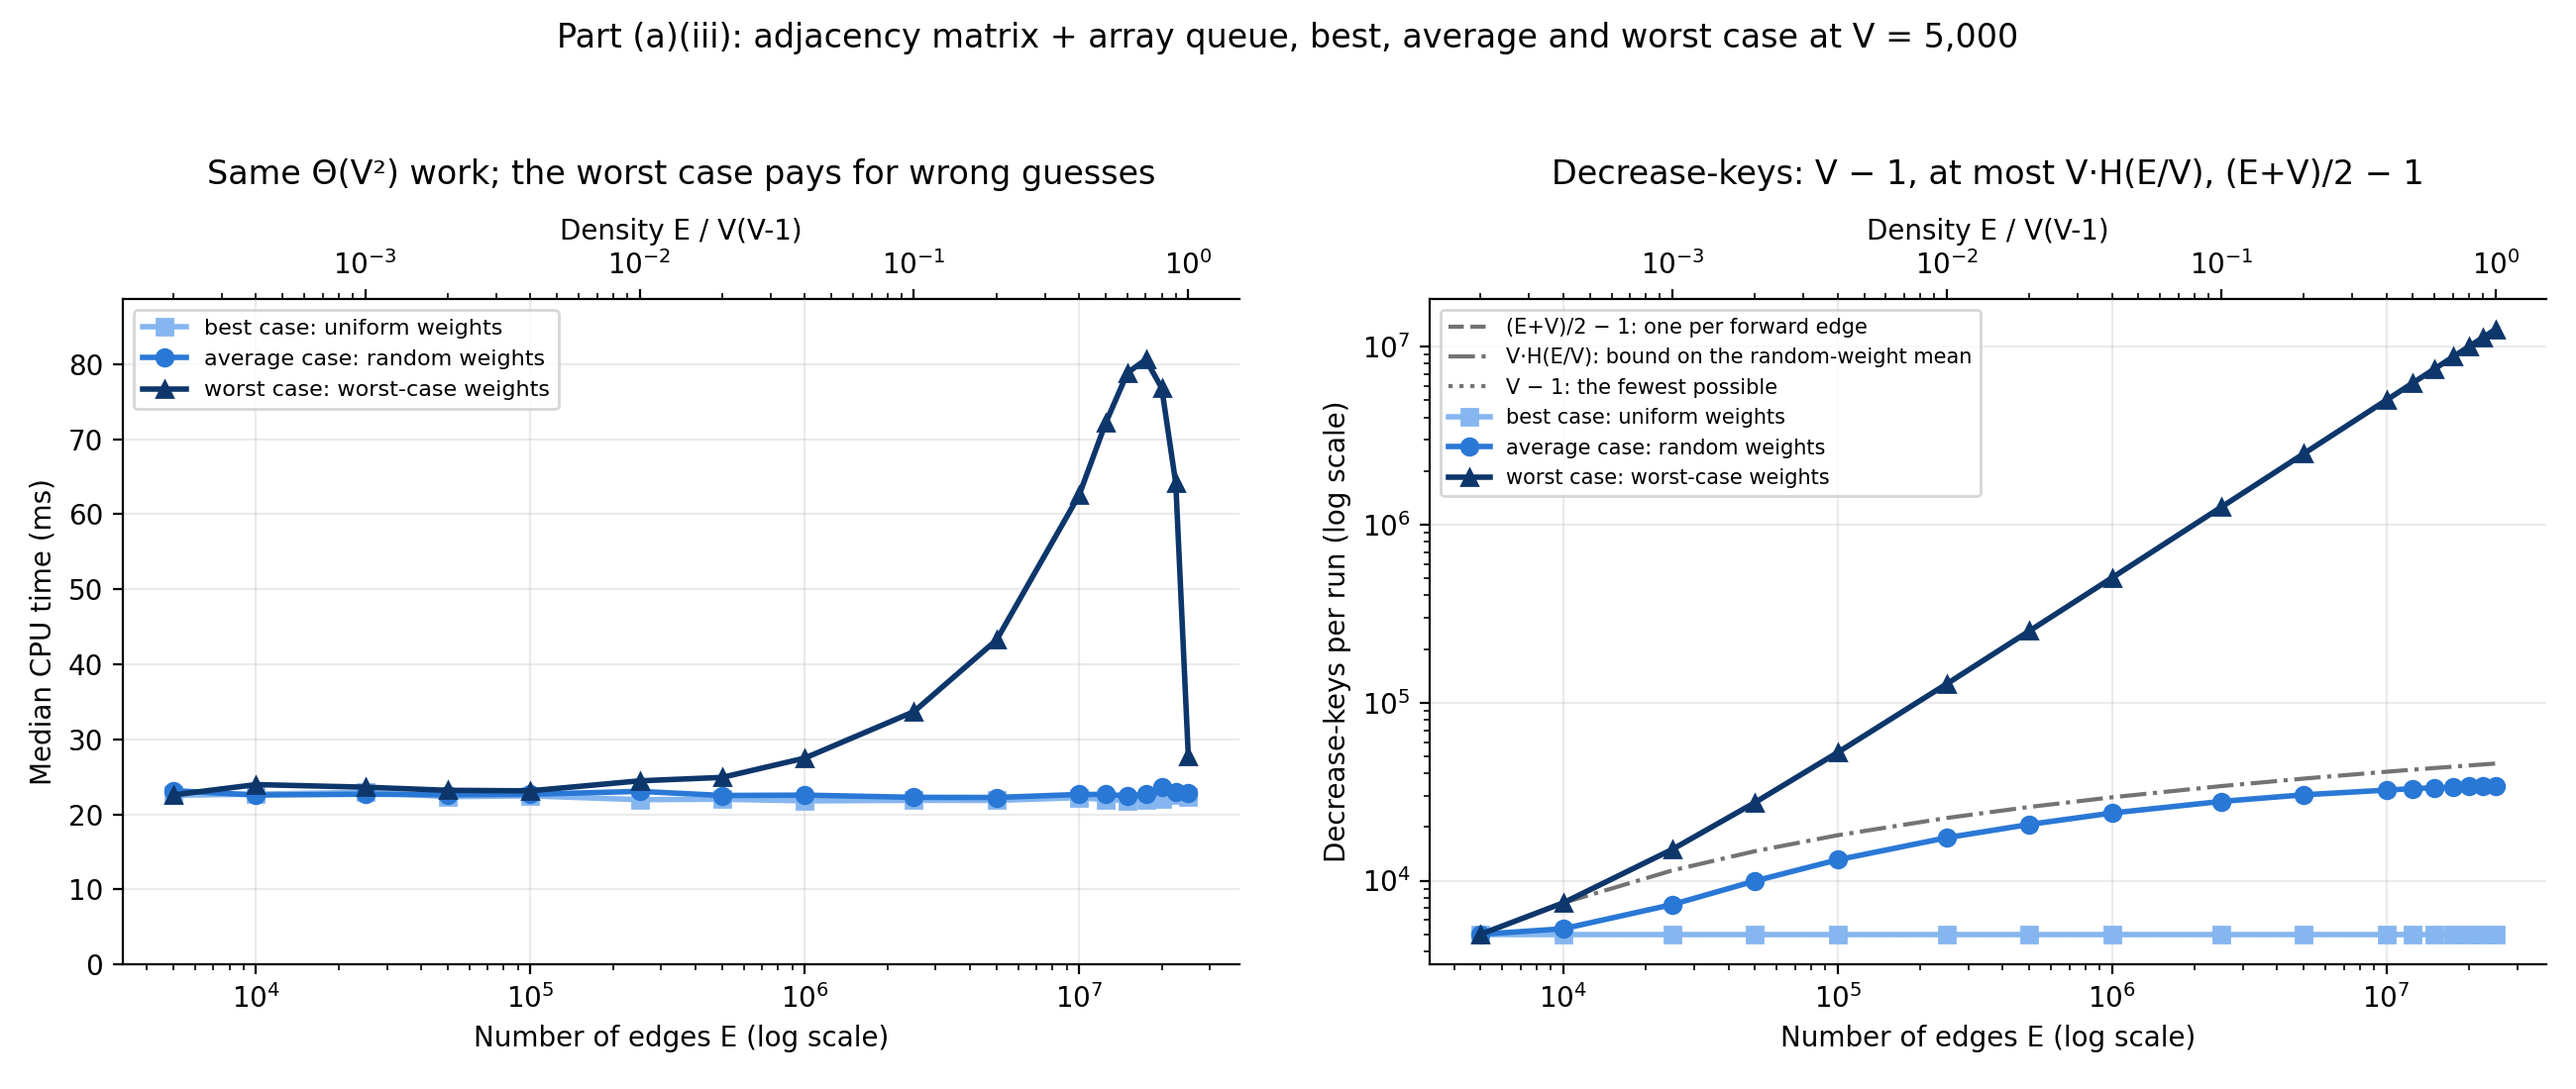
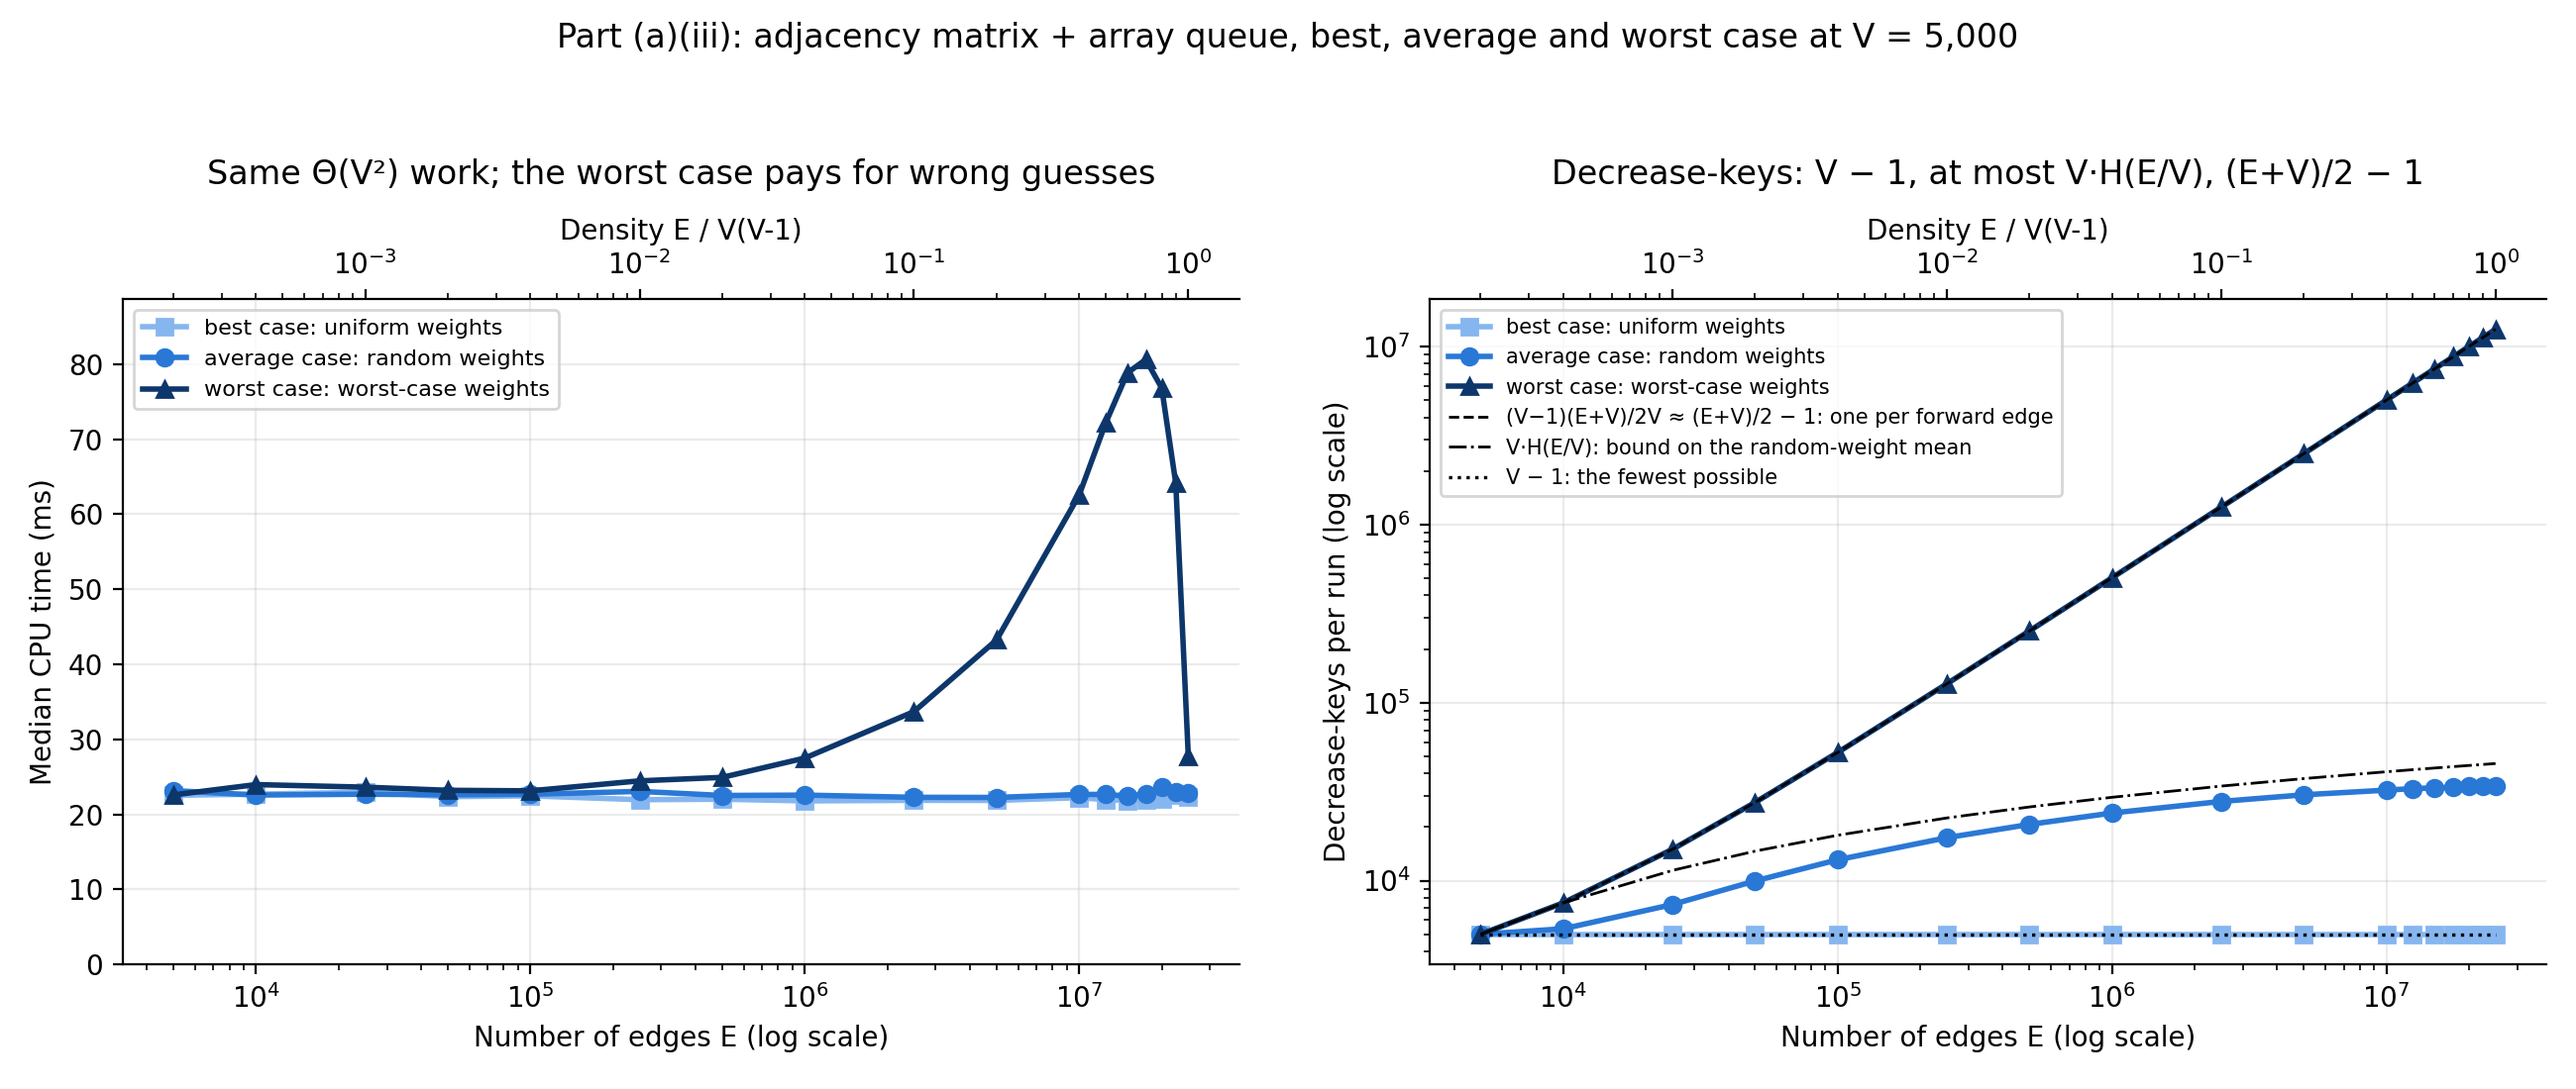
Apply second-review fixes to parts (a)/(b) docs and figures
- README: (a)/(b) ratio at density 0.5 is 1.87; worst-case count stated as
  (V-1)(E+V)/(2V) ~ (E+V)/2 - 1; separate why (a)(i) stops at V = 8,000
  from the 40 GB matrix at V = E; clearer forward-edge definition.
- Figures: reference lines in the (iii) decrease-key panels drawn on top of
  the data they coincide with; (b)(i) count-panel title states the measured
  heap comparisons / V log2 V range; H(x) extended to non-integer E/V.
- GraphGenerator Javadoc: the no-shortcut argument and F_i definition.

diff --git a/project-2/python/plot_results.py b/project-2/python/plot_results.py
@@ -110,8 +110,19 @@ def relative_linear_fit(x_values, y_values):
     return (t0 - slope * s1) / s0, slope
 
 
-def harmonic(k):
-    return sum(1.0 / i for i in range(1, int(round(k)) + 1))
+def harmonic(x):
+    """H(x) = digamma(x + 1) + Euler's gamma, which equals 1 + 1/2 + ... + 1/x for whole x.
+
+    E/V is not always a whole number in the fixed-E sweeps, so the sum alone would round it.
+    """
+    shift = 0.0
+    z = x + 1.0
+    while z < 8.0:
+        shift -= 1.0 / z
+        z += 1.0
+    digamma = (math.log(z) - 1.0 / (2.0 * z) - 1.0 / (12.0 * z ** 2)
+               + 1.0 / (120.0 * z ** 4) - 1.0 / (252.0 * z ** 6))
+    return digamma + shift + 0.5772156649015329
 
 
 def heap_term(row):
@@ -169,21 +180,22 @@ def plot_case_times(axis, rows, algorithm):
 def plot_case_decrease_keys(axis, rows, algorithm, vertex_count):
     """Decrease-keys against E for each weighting, with the three theoretical counts."""
     e = column(rows_where(rows, weights="random"), "e")
-    axis.plot(
-        e, [forward_edges(x, vertex_count) for x in e], linestyle="--", color=REFERENCE_COLOUR,
-        linewidth=1.5, label="(E+V)/2 − 1: one per forward edge")
-    axis.plot(
-        e, [vertex_count * harmonic(x / vertex_count) for x in e], linestyle="-.",
-        color=REFERENCE_COLOUR, linewidth=1.5, label="V·H(E/V): bound on the random-weight mean")
-    axis.plot(
-        e, [vertex_count - 1 for _ in e], linestyle=":", color=REFERENCE_COLOUR,
-        linewidth=1.5, label="V − 1: the fewest possible")
     for weights in CASE_ORDER:
         weight_rows = rows_where(rows, weights=weights)
         axis.plot(
             column(weight_rows, "e"), column(weight_rows, "mean_decrease_keys"),
             marker=CASE_MARKERS[weights], color=CASE_SHADES[algorithm][weights],
             linewidth=2, label=CASE_NAMES[weights])
+    # The references go on top: two of them coincide with the data they predict.
+    axis.plot(
+        e, [forward_edges(x, vertex_count) for x in e], linestyle="--", color="black",
+        linewidth=1, zorder=5, label="(V−1)(E+V)/2V ≈ (E+V)/2 − 1: one per forward edge")
+    axis.plot(
+        e, [vertex_count * harmonic(x / vertex_count) for x in e], linestyle="-.",
+        color="black", linewidth=1, zorder=5, label="V·H(E/V): bound on the random-weight mean")
+    axis.plot(
+        e, [vertex_count - 1 for _ in e], linestyle=":", color="black",
+        linewidth=1.2, zorder=5, label="V − 1: the fewest possible")
     axis.set_xscale("log")
     axis.set_yscale("log")
     axis.set_ylabel("Decrease-keys per run (log scale)")
@@ -403,7 +415,12 @@ def plot_part_b_vary_v(results_directory, output_directory):
     time_axis.set_title(f"Same E = {edge_count:,}: (a) grows as V², (b) far more slowly")
     time_axis.legend(fontsize=8, loc="upper left")
     count_axis.set_ylabel("Operations per run (log scale), part (b)")
-    count_axis.set_title("(b): heap work grows like V log V; relaxations stay at E")
+    per_v_log_v = [
+        comparisons / (n * math.log2(n))
+        for comparisons, n in zip(heap_comparisons, v) if n < edge_count]
+    count_axis.set_title(
+        f"(b): heap comparisons {min(per_v_log_v):.1f}–{max(per_v_log_v):.1f} × V·log₂V "
+        "for V < E; relaxations stay at E")
     count_axis.legend(fontsize=8, loc="upper left")
 
     figure.suptitle(

diff --git a/project-2/java/GraphGenerator.java b/project-2/java/GraphGenerator.java
@@ -91,8 +91,10 @@ public final class GraphGenerator {
      * weights that make vertex 0 a worst-case source for the heap.
      *
      * <p>Let x0 = 0, x1, x2, ... be the vertices in cycle order. Cycle edges
-     * get weight 1, so d(x_i) = i and Dijkstra's algorithm extracts the
-     * vertices in exactly this order. An edge from x_i forward to a later
+     * get weight 1, and every other forward edge from x_i to x_k weighs more
+     * than k - i (gap[i] is at least 2(V - 1 - i)), so no edge shortcuts the
+     * cycle: d(x_i) = i and Dijkstra's algorithm extracts the vertices in
+     * exactly this order. An edge from x_i forward to a later
      * x_k (other than the cycle edge) gets weight {@code gap[i] + r}, where r
      * counts down along x_i's adjacency list, from x_i's number of such edges
      * to 1. Two facts follow:
@@ -100,7 +102,8 @@ public final class GraphGenerator {
      *   <li>The edges from x_i are relaxed in list order, and their keys
      *       d(x_i) + gap[i] + r fall with every edge, so each new key is
      *       smaller than the one set before it.</li>
-     *   <li>{@code gap[i - 1] = gap[i] + (forward edges of x_i) + 2}, so every
+     *   <li>{@code gap[i - 1] = gap[i] + F_i + 2}, where F_i counts x_i's
+     *       forward edges other than its cycle edge, so every
      *       key set while processing x_i is smaller than every key set
      *       earlier.</li>
      * </ol>

diff --git a/project-2/README.md b/project-2/README.md
@@ -38,9 +38,9 @@ because that vertex's distance is already the smallest.
 
 - **Terms.** *Density* is `E / V(V − 1)`, the fraction of all possible edges
   that are present. A *forward edge* is an edge to a vertex that comes later
-  on the graph's Hamiltonian cycle (see below), counted from the source; the
-  `V − 1` cycle edges themselves are forward edges, except the one that
-  closes the cycle.
+  on the graph's Hamiltonian cycle (see below), counted from the source;
+  every cycle edge except the one that closes the cycle back to the source is
+  a forward edge, so `V − 1` of the `V` cycle edges are.
 - **Graphs.** Directed, with exactly `E` edges. Every vertex has out-degree
   `⌊E/V⌋` or `⌈E/V⌉`, with targets drawn uniformly at random and without
   repeats. Every graph contains a random cycle through all vertices (a
@@ -184,7 +184,8 @@ The sweep of (ii) with uniform, random and worst-case weights.
 - **The decrease-keys follow the theory.** Uniform weights give exactly
   4,999 = `V − 1` in every row. Random weights give 4,999 to 34,043, at most
   `V · H(E/V)` (0.64-0.82 of it for `E > V`). Worst-case weights give one
-  per forward edge, `(E + V)/2 − 1` to within 0.1%: 7,502 at `E = 2V`,
+  per forward edge, `(V − 1)(E + V)/(2V) ≈ (E + V)/2 − 1` on average,
+  matched to within 0.1%: 7,502 at `E = 2V`,
   1.5 times `E/2`, and about `E/2` once `E ≫ V`.
 - **Best and average case take nearly the same time.** Relative to the
   random-weight time at the same `E`, uniform weights take between 6.8% less
@@ -247,8 +248,9 @@ at most `E` decrease-keys climbs at most `log V` levels.
 `V` from 500 to 100,000; `E` fixed at 100,000, as in (a)(i); random weights.
 `V` cannot exceed `E`, because the Hamiltonian cycle needs `E ≥ V`; at
 `V = 100,000` every vertex has out-degree 1 and the graph is the cycle alone.
-The matrix of (a) would need `4V²` bytes, 40 GB at `V = 100,000`, which is
-why (a)(i) stops at 8,000 (256 MB). Up to 8,000 the two parts use graphs from
+The matrix of (a) needs `4V²` bytes, 40 GB at `V = 100,000`, so (a) cannot
+follow (b) up to `V = E`; (a)(i) stops at 8,000 (256 MB, also the largest `V`
+of part (c)) to keep the run short. Up to 8,000 the two parts use graphs from
 the same seeds (the first 10 trials are the same graphs; (b) runs up to 100
 trials on these small graphs), measured in separate runs.
 
@@ -435,7 +437,7 @@ faster for the larger `V`.
   by a margin that shrinks as the graph fills up.** (b) reads the `E` list
   entries, (a) all `V²` matrix cells. At density 0.5, (b) takes 0.49-0.58 of
   the time of (a); on the complete graph the two are level (0.925-1.005). The
-  same holds on the `V = 5,000` sweeps of parts (a) and (b): (a) takes 1.88
+  same holds on the `V = 5,000` sweeps of parts (a) and (b): (a) takes 1.87
   times as long as (b) at density 0.5 and 1.02 times on the complete graph.
   The `log V` factor of (b) never shows, because at density 0.5 and above at
   most 1.1% of relaxations call `decreaseKey` (1.1% at `V = 1,000`, 0.17% at
